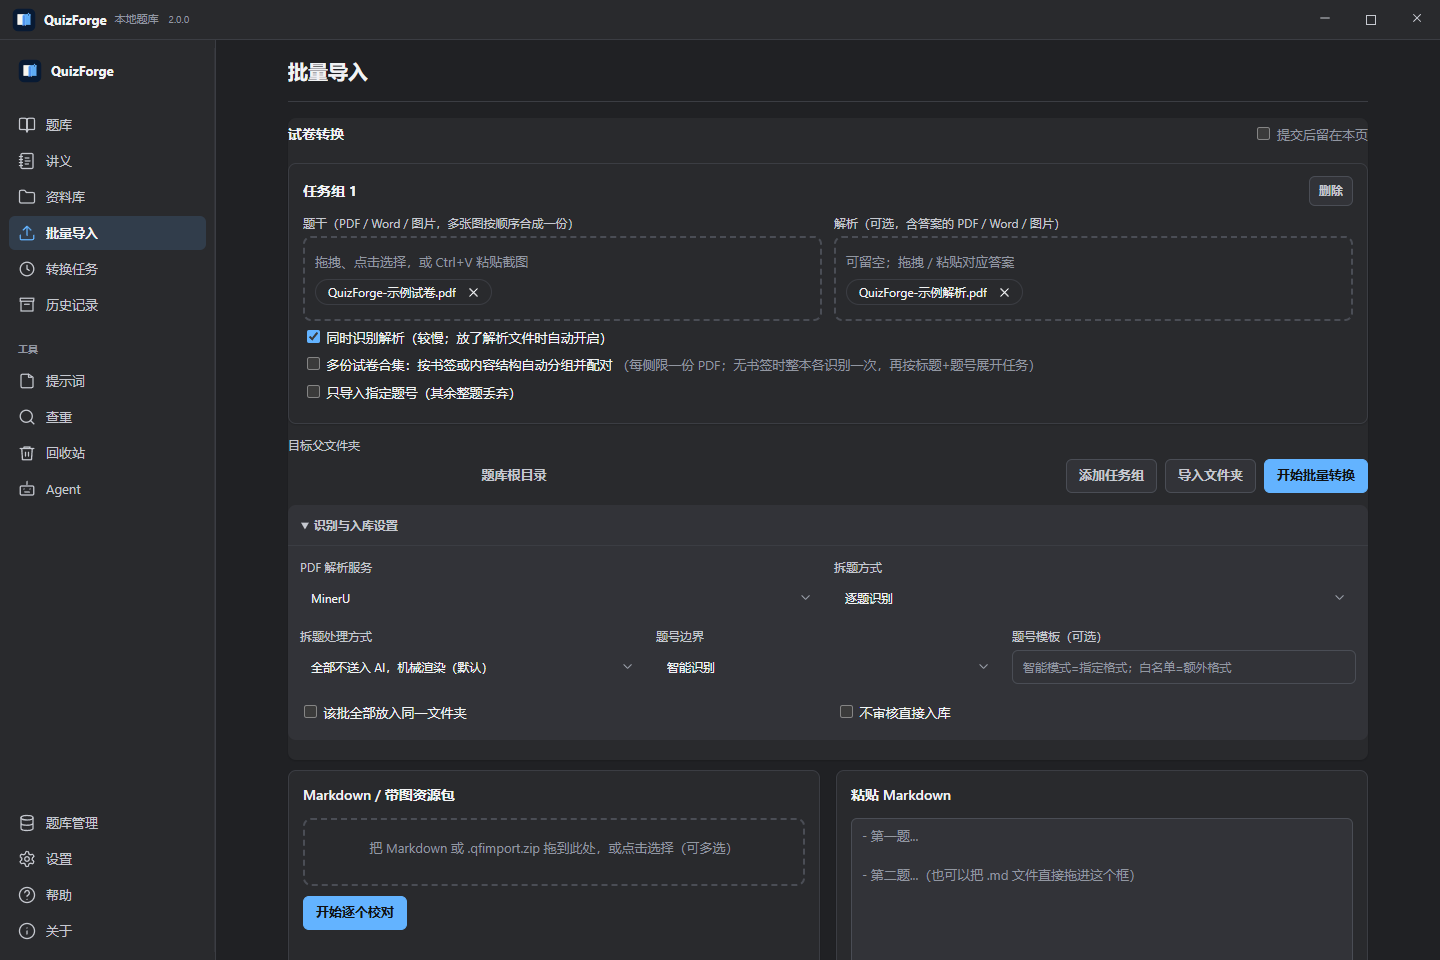
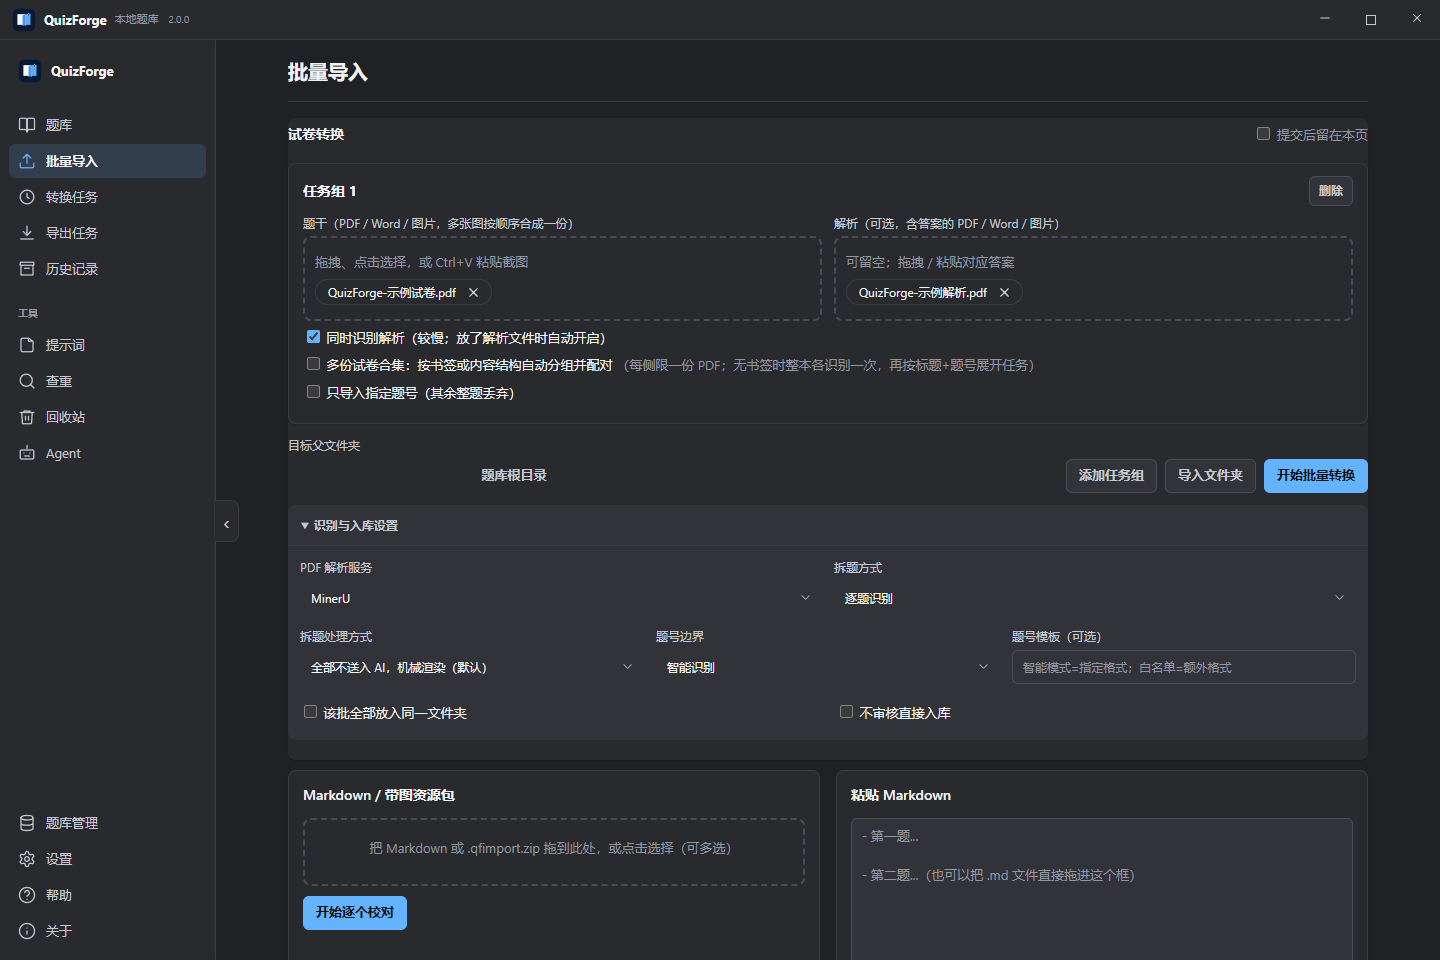
文档：更新 GitHub 首页 README 与截图
首页中英文 README 改为介绍右缘导出抽屉与四维版面（含自适应）、导出任务面板、自动导入工作站，并说明 master 比私测版 v2.0.0 多出尚未发布的改动；折叠详情里过期的讲义编排条目改为 Agent 生成讲义的准确说法。三张截图用隔离示例库在 1440x960 下重拍（题库页、导出抽屉、批量导入），旧的讲义编排截图随该栏目移除一并删除。

Changed region(s): [[0.0, 0.125, 0.1562, 0.5312]]

diff --git a/README.en.md b/README.en.md
@@ -13,17 +13,19 @@
   <a href="README.md">中文</a>
 </p>
 
-QuizForge is an open-source, local-first question bank for mathematics and physics. Import PDF, Word, image, or Markdown exams; review and organize the questions; then compose handouts, worksheets, papers, or classroom slides and export them as PDF, DOCX, Markdown, TeX, or an Overleaf-ready ZIP. An optional Agent workspace can sit beside the bank for conversational search, organization, import, and export.
+QuizForge is an open-source, local-first question bank for mathematics and physics. Import PDF, Word, image, or Markdown exams; review and organize the questions; then select questions, pick a layout in the export drawer, and export PDF, Word, or a LaTeX source ZIP that is ready for Overleaf. An optional Agent workspace can sit beside the bank for conversational search, organization, import, and export.
 
 Questions and images stay on your computer. There is no account, invite code, trial, or device activation. OCR and AI normalization are optional: configure your own MinerU, Doc2X, or OpenAI-compatible API only when you need them.
 
-![QuizForge question bank with a folder tree, search filters, and editable cards](docs/images/quizforge-question-bank.png)
+> This page's screenshots and feature overview describe the latest source on the `master` branch. It is ahead of the private-test v2.0.0 build with the export drawer, export task panel, and auto-import workstation, which are not released yet; see `[Unreleased]` in the [CHANGELOG](CHANGELOG.md) for the details.
+
+![QuizForge question bank with a folder tree, search filters, and editable cards; an Export tab appears on the right edge once questions are selected](docs/images/quizforge-question-bank.png)
 
 ## From paper to reusable questions
 
 | 1. Add exams | 2. Review recognition | 3. Organize and reuse | 4. Produce a document |
 |---|---|---|---|
-| Drop in PDF, Word, images, or Markdown | Use mechanical splitting or your own AI | Sort by folders, tags, difficulty, and search | Build handouts, papers, worksheets, or slides |
+| Drop in PDF, Word, images, or Markdown | Use mechanical splitting or your own AI | Sort by folders, tags, difficulty, and search | Select questions and combine a layout to produce papers, worksheets, handouts, or slides |
 
 Batch imports can pair question and solution files or process exam collections. When grouping or content quality is uncertain, QuizForge stops for review instead of silently guessing and writing incorrect results into your bank.
 
@@ -33,19 +35,20 @@ Add several question and solution files, choose OCR and splitting once, then rev
 
 ![QuizForge batch import with question/solution pairing, OCR, and splitting controls](docs/images/quizforge-import.png)
 
-### Handout composer
+### Export drawer
 
-Take questions from the selection rail and drag them onto a paginated canvas, with numbering, solutions, paper layout, and export controls in one workspace.
+Select questions and an Export tab appears on the right edge of the bank page; click it to slide out a separate export panel. Choose how solutions are handled and a preset, or combine Layout (flow, compact, adaptive, one per page, two per page), Grouping (by question type or not), Page mode (single or double column), and Ratio (A4 or 16:9 widescreen) yourself. Incompatible choices are disabled automatically. The Adaptive layout sizes the answer space of each solution question from its difficulty and sub-question count. Exports run in a background task panel, so you can keep working while they compile.
 
-![QuizForge handout composer with selected questions, paginated canvas, and export controls](docs/images/quizforge-handouts.png)
+![QuizForge export drawer with preset, layout, grouping, page mode, and ratio choices](docs/images/quizforge-export.png)
 
 ## What you can do
 
 - **Own a plain-file question bank:** every question is a Markdown file and every collection is a real folder, directly accessible from QuizForge or Obsidian.
 - **Find old questions quickly:** filter by folder, tag, type, difficulty, or star, and search stems, solutions, and sources. Duplicate scanning starts only when requested and can be paused.
 - **Review OCR safely:** MinerU and Doc2X support multiple locally encrypted credentials and rotation. Splitting can be mechanical, block-by-block AI, or whole-document AI, with editable source retained when recognition needs correction.
-- **Compose and export:** drag questions onto a paginated handout canvas, adjust numbering, solutions, breaks, and figures, then export PDF, DOCX, Markdown, TeX, or a ZIP with assets.
-- **Work with the optional Agent:** use a streaming, avatar-free side workspace to search, organize, import, and export through auditable tools. Standard mode asks before local commands, bank writes, paid conversions, and template actions. Danger mode is an explicit session-only grant and expires when the session changes or the app restarts.
+- **Export papers, worksheets, and slides:** select questions, then pick a preset or combine a layout in the right-edge export drawer; adjust solution placement, paper color, headers and footers, and fonts, and export PDF, Word, or a LaTeX source ZIP with assets. Exports run as background tasks: submit several at once, cancel any of them, or reload a finished task's settings to export again.
+- **Auto-import workstation:** give "Good Questions", "Good Papers", and "Good Materials" each an input and output folder and let QuizForge watch for new files, de-duplicate them by content, and recognize them into the bank. A single question becomes one card, a paper becomes numbered cards, and reference material is split into body, question, and solution cards. Each successful conversion keeps a version and the source file goes to the system recycle bin. Watching is off by default and still being validated.
+- **Work with the optional Agent:** use a streaming, avatar-free side workspace to search, organize, import, and export through auditable tools. Standard mode asks before local commands, bank writes, paid conversions, and template actions. Danger mode is an explicit session-only grant and expires when the session changes or the app restarts. You can also chat from a terminal with the `qf` command, or expose the same tools to other agent clients through an MCP server.
 - **Reuse prompts and templates:** copy two built-in prompts for converting papers to QuizForge Markdown or styles to candidate TeX, maintain local custom prompts, import image-bearing Markdown bundles, and enable custom TeX templates only after real compilation validation.
 - **Keep data local:** banks, images, API configuration, and UI settings remain on this computer. Update checks never upload content, paths, or credentials.
 
@@ -128,8 +131,9 @@ Build from the development environment with `.\build_desktop.ps1`, then `.\build
 - **Multiple banks and one shared image directory**: the desktop app remembers up to 100 local bank paths and one global `assets_dir` used by every bank window. When you explicitly change that directory, old per-bank `_assets` files are copied without deleting their sources; identical files are reused and same-name/different-content conflicts abort the switch. Banks under one Obsidian vault should select that vault's common `_assets`. Open an existing vault/folder, create an empty bank, switch with an automatic local-backend restart, or forget a non-current entry without deleting any files. Disconnected drives are shown as unavailable rather than silently recreated
 - **Image lifecycle and orphan audit**: soft-deleting a question keeps its images so the question can be restored. The Deduplication page can audit the shared directory against every registered bank, including recycle bins, handouts, and safety backups. Any unavailable bank or unreadable Markdown blocks deletion. After an explicit second confirmation, the server scans again and permanently deletes only old, unchanged files that remain unreferenced everywhere
 - **In-app library**: lazily browse the current bank directory and open UTF-8 Markdown, PDFs, and common images in persistent tabs. PDF panels use WebView2's built-in viewer and remain alive while switching tabs or top-level sections. The workspace supports horizontal or vertical two-pane splits, resizable proportions, and moving tabs between panes; layout and tabs are restored for the current window session. Markdown can be edited and saved directly in source view, while rendered view previews the current draft with local KaTeX. Saves use file-version conflict detection, so an external Obsidian edit is never silently overwritten. The file API is restricted to visible allow-listed files under the bank root; PDFs and images remain read-only
-- **Handout composer**: a dedicated workspace combines the persistent selected-question rail with a fixed paginated Markdown canvas. A dropped question opens in the right inspector for Markdown, solution placement, and exact custom numbering; “Confirm and compile” renders it through the shared Pandoc/XeLaTeX template, leaving only a blue outlined result card until it is clicked again. A4 one/two-column and 16:9 layouts support explicit page breaks. Solutions render their field content directly and can wrap text around their images, continuing at full width below. An optional WIMath mark appears top-left on A4 with safe top spacing or bottom-left on slides. Slide questions use a 70%-wide left-aligned content area, with per-image sizes preserved inside it. `_handouts/*.md` remains the only source of truth, whole handouts can be safely deleted with mtime protection, and SVG/automatic pagination stay disposable; the full PDF preview remains authoritative
-- **Exam export**: filter questions and export standard papers, a compact A4 two-column practice sheet, or 16:9 classroom slides. Every mode can use a pure-white or warm-cream paper background, six-position headers and footers spanning the full page, and the optional WIMath mark. Slide questions use a 70%-wide left-aligned content area and preserve card-level image sizing. In the practice layout, short questions continue flowing through columns; the first solution question stays in the current column only when TeX measures enough remaining height for the whole question and answer area, while each later solution question starts a fresh column. Image/text splits in this narrow layout automatically become right-side wrapped figures so text can reclaim the full column below each image; other modes retain their existing split and automatic image layouts. Per-question solutions do not receive an injected `【解析】` prefix, while section headings such as “Reference solutions” remain. Exports run as background tasks in a left-side “Export Tasks” panel: submitting returns to the bank immediately, several exports can run at once, and each task shows its source bank, configuration summary, and live stage progress. Tasks can be cancelled (ending the compile process tree), opened as a PDF preview/download or revealed in their output folder on the desktop, and re-loaded into the export form for editing and re-export; finished or cancelled history entries can be deleted
+- **Handouts**: the desktop app no longer has a separate handout-composer section. `_handouts/*.md` files remain ordinary Markdown that can be opened in the library, and handouts are now produced by the Agent: it can build one directly from question IDs or filter conditions (A4 single/double column or 16:9, solutions hidden, inline, or appended, optional headers and footers) and export PDF, TeX, or a ZIP with images. Content changes are snapshotted first and can be rolled back. The "handout" preset (two per page plus a key-points page) is still available in the export drawer
+- **Export drawer and four-dimension layouts**: selecting questions reveals an Export tab on the right edge that slides out a non-modal drawer. Options are layered: title, solution handling (none / after each question / separate pages), preset, layout, grouping, page mode, ratio, format, and advanced settings (CJK and Latin fonts, preview method, paper color, headers and footers). A preset simply pre-selects the layout options (paper, standard paper, notes, lecture, slides, two-column practice, list, handout); changing any layout option returns to Custom. Custom combines Layout (flow, compact, adaptive, one per page, two per page) × Grouping (by type or not) × Page mode (single/double column) × Ratio (A4 / 16:9), disabling incompatible choices and converging nearby; the same combination reached from a preset or from Custom produces byte-identical output. Adaptive keeps the single-column flow but, instead of giving each solution question a half-page slot, leaves answer space scaled by its difficulty and number of top-level sub-questions, using the same rule as the two-column practice sheet (overridable through `config.ANSWER_SPACE`). The default Chinese font is Fandol Song; if a PDF viewer shows blank Chinese text, pick another font. Formats are PDF, Word, or a LaTeX source ZIP
+- **Exam export**: export standard papers, a compact A4 two-column practice sheet, or 16:9 classroom slides, through the drawer presets or by combining the four layout dimensions yourself. Every mode can use a pure-white or warm-cream paper background, six-position headers and footers spanning the full page, and the optional WIMath mark. Slide questions use a 70%-wide left-aligned content area and preserve card-level image sizing. In the practice layout, short questions continue flowing through columns; the first solution question stays in the current column only when TeX measures enough remaining height for the whole question and answer area, while each later solution question starts a fresh column. Image/text splits in this narrow layout automatically become right-side wrapped figures so text can reclaim the full column below each image; other modes retain their existing split and automatic image layouts. Per-question solutions do not receive an injected `【解析】` prefix, while section headings such as “Reference solutions” remain. Exports run as background tasks in a left-side “Export Tasks” panel: submitting returns to the bank immediately, several exports can run at once, and each task shows its source bank, configuration summary, and live stage progress. Tasks can be cancelled (ending the compile process tree), opened as a PDF preview/download or revealed in their output folder on the desktop, and re-loaded into the export form for editing and re-export; finished or cancelled history entries can be deleted
 - **Validated custom TeX templates**: Settings accepts UTF-8 `.tex`, manifest-based `.tex.zip` packages, and reference-only PDFs. Executable templates must contain exactly one `$body$`, preserve QuizForge runtime macros, and compile fixed Chinese, formula, table, image, and solution samples for every declared mode inside a restricted no-shell-escape workspace. Validation is bound to the source hash, so changed or incompatible templates cannot be selected; built-in templates remain the default
 - **Local-first storage**: one `.md` file per question (YAML frontmatter + body), folders are real directories — the bank folder can be opened directly in Obsidian as a vault
   - Questions whose original paper number was recognised at import are named after it (`第3题.md`), so they're easy to find in a folder; the rest (hand-written, or split out during proofreading) fall back to a random id. **Filenames carry no identity** — that comes from the `id` in the frontmatter, so renaming a file breaks nothing
